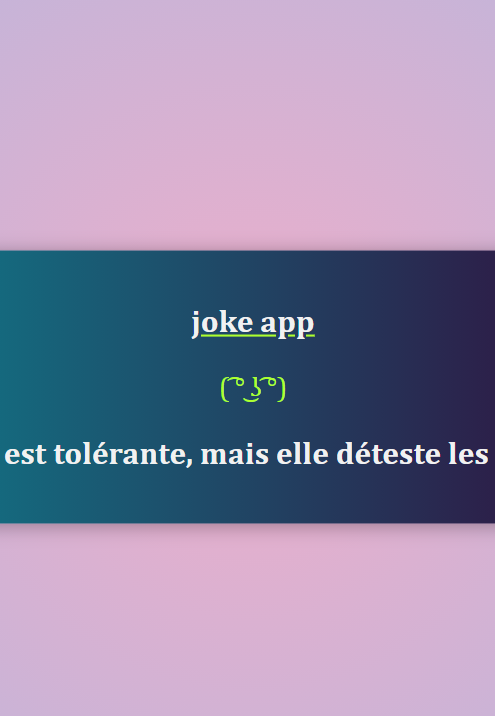
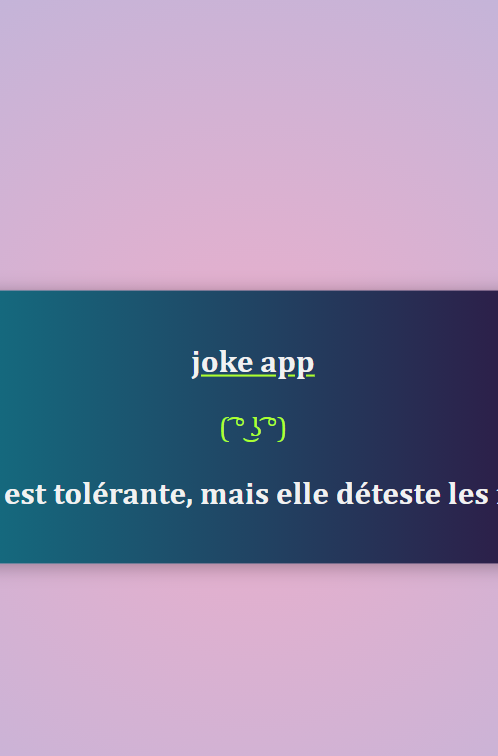
scale on works img on mobile

diff --git a/src/components/works/Works.jsx b/src/components/works/Works.jsx
@@ -6,6 +6,16 @@ export default function Works() {
     const data = [
         {
             id: "1",
+            icon: "assets/wecode-icon.png",
+            title: "WECODE",
+            desc:
+                "Création d'un site vitrine responsive : WECODE (maquette Figma, page d’accueil, diverses pages sur des thèmes différents liés au développement).",
+            img:
+                "assets/wecode-rogne.png",
+            link:"https://we-code.netlify.app/",
+        },
+        {
+            id: "2",
             icon: "assets/logo-cineflix.png",
             title: "Cineflix",
             desc:
@@ -15,7 +25,7 @@ export default function Works() {
             link:"https://cineflix-wcs-p2.netlify.app/home",
         },
         {
-            id: "2",
+            id: "3",
             icon: "./assets/tetris-icon.png",
             title: "Tetris App",
             desc:
@@ -25,7 +35,7 @@ export default function Works() {
                 link:"https://tetris-rc.netlify.app/",
         },
         {
-            id: "3",
+            id: "4",
             icon: "./assets/yoga-icon.png",
             title: "Yoga App",
             desc:
@@ -36,16 +46,16 @@ export default function Works() {
 
         },
         {
-            id: "4",
+            id: "5",
             icon: "./assets/flag-icon.png",
             title: "Flag App",
             desc:
-                "Application qui permet de voir les informations d'un en survolant son drapeau, réalisé en React et en utilisant une API.",
+                "Application qui permet de voir les informations d'un pays en survolant son drapeau, réalisé en React et en utilisant une API.",
             img: "assets/flag-rogne.png",
             link: "https://flag-react.netlify.app/", 
         },
         {
-            id: "5",
+            id: "6",
             icon: "./assets/shifumi-icon.png",
             title: "Shi Fu Mi App",
             desc:
@@ -56,7 +66,7 @@ export default function Works() {
  
         },
         {
-            id: "6",
+            id: "7",
             icon: "./assets/joke-icon.png",
             title: "Joke App",
             desc:
@@ -67,7 +77,7 @@ export default function Works() {
  
         },
         {
-            id: "",
+            id: "8",
             icon: "./assets/million-icon.png",
             title: "Qui Veut Gagner Des Millions",
             desc:
@@ -81,12 +91,12 @@ export default function Works() {
 
     const handleClick = (way) => {
         way === "left"
-            ? setCurrentSlide(currentSlide > 0 ? currentSlide - 1 : 6)
+            ? setCurrentSlide(currentSlide > 0 ? currentSlide - 1 : 7)
             : setCurrentSlide(currentSlide < data.length - 1 ? currentSlide + 1 : 0);
     };
 
     return (
-        <div className="works">
+        <div className="works" id="works">
             <div
                 className="slider"
                 style={{ transform: `translateX(-${currentSlide * 100}vw)` }}

diff --git a/src/data.js b/src/data.js
@@ -5,6 +5,13 @@ export const featuredPortfolio = [
         img:
             "assets/cineflix.png",
         link: "https://cineflix-wcs-p2.netlify.app/home",
+    },
+    {
+        id: 2,
+        title: "WECODE",
+        img:
+            "assets/wecode.png",
+        link: "https://https://we-code.netlify.app/",
     }
 ];
 
@@ -58,35 +65,46 @@ export const mobilePortfolio = [
         title: "Mobile Social Media App",
         img:
             "https://cdn.dribbble.com/users/2597268/screenshots/15468893/media/44313553d73ba41580f1df69749bba28.jpg?compress=1&resize=1200x900",
+        link: "",
     },
     {
         id: 2,
         title: "Mobile Rampa UI Design",
         img:
             "https://cdn.dribbble.com/users/5920881/screenshots/15463142/media/b5a460223798bd85d835710806e2f3dd.png?compress=1&resize=1200x900",
+        link: "",
+
     },
     {
         id: 3,
         title: "Mobile E-commerce Design",
         img:
             "https://cdn.dribbble.com/users/1998175/screenshots/15459384/media/48ac2b43ebe81ba0866afea1383cc939.png?compress=1&resize=1200x900",
+        link: "",
+
     },
     {
         id: 4,
         title: "Mobile Relax App",
         img:
             "https://cdn.dribbble.com/users/2083704/screenshots/15468619/media/cd958306c7a772449e1ac23bd65ce506.png?compress=1&resize=1200x900",
+        link: "",
+
     },
     {
         id: 5,
         title: "Mobile Hero Design",
         img:
             "https://cdn.dribbble.com/users/26642/screenshots/15462545/media/1a202ef5c8338b6f78634e6edc1ba350.png?compress=1&resize=1200x900",
+        link: "",
+
     },
     {
         id: 6,
         title: "Mobile Banking App",
         img:
             "https://cdn.dribbble.com/users/1387827/screenshots/15466426/media/deb2dca6762cd3610321c98bfccb0b72.png?compress=1&resize=1200x900",
+        link: "",
+
     },
 ];

diff --git a/src/components/intro/Intro.jsx b/src/components/intro/Intro.jsx
@@ -10,7 +10,7 @@ export default function Intro() {
             showCursor: true,
             backDelay: 1500,
             backSpeed: 60,
-            strings: ["ReactJS", "NodeJS"],
+            strings: ["ReactJS.", "NodeJS."],
         });
     }, []);
 
@@ -46,7 +46,7 @@ export default function Intro() {
                     <h4>A propos de moi :</h4>
                     <p>Après de nombreuses expériences dans différents domaines, je me reconverti dans le développement web. Ambitieux et désireux d'apprendre de nouveaux languages de programmation, je souhaite monter rapidement en compétence. La programmation étant une passion, je suis capable de m'autoformer et d'effectuer des veilles technologiques.</p>
                 </div>
-                <a href="#portfolio">
+                <a href="#works">
                     <img src="assets/down.png" alt="" />
                 </a>
             </div>

diff --git a/src/components/portfolio/Portfolio.jsx b/src/components/portfolio/Portfolio.jsx
@@ -58,15 +58,18 @@ export default function Portfolio() {
             </ul>
             <div className="container">
                 {data.map((d) => (
-                    <div className="item">
-                        <a rel="noopener noreferrer" href={d.link} target="_blank">  
+                    <a 
+                    rel="noopener noreferrer" 
+                    href={d.link} 
+                    target="_blank"
+                    className="item" 
+                    style={ d.link === "" ? {cursor: "not-allowed"} : {cursor: "pointer"}}>
                             <img
                                 src={d.img}
                                 alt=""
                             />
-                        </a>
                         <h3>{d.title}</h3>
-                    </div>
+                    </a>
                 ))}
             </div>
         </div>

diff --git a/src/components/portfolio/portfolio.scss b/src/components/portfolio/portfolio.scss
@@ -89,7 +89,6 @@
       color: white;
       position: relative;
       transition: all 0.5s ease;
-      cursor: pointer;
 
       @include mobile {
         width: 130px;
@@ -104,26 +103,17 @@
 
         @include mobile {
           font-size: 12px;
-          background-color: $color-6;
           border-radius: 5px;
           padding: 5px;
         }
         @include tab {
           font-size: 16px;
-
-          background-color: $color-6;
           border-radius: 5px;
           padding: 5px;
         }
       }
 
-      a {
-        height: 100%;
-        width: 100%;
-        overflow: hidden;
-      }
-
-      a img {
+      img {
         width: 100%;
         height: 100%;
         object-fit: cover;

diff --git a/src/components/works/works.scss b/src/components/works/works.scss
@@ -160,6 +160,9 @@
             @include tab {
               transform: rotate(10deg) scale(0.8);
             }
+            @include mobile {
+              transform: rotate(10deg) scale(0.9);
+            }
           }
         }
       }
